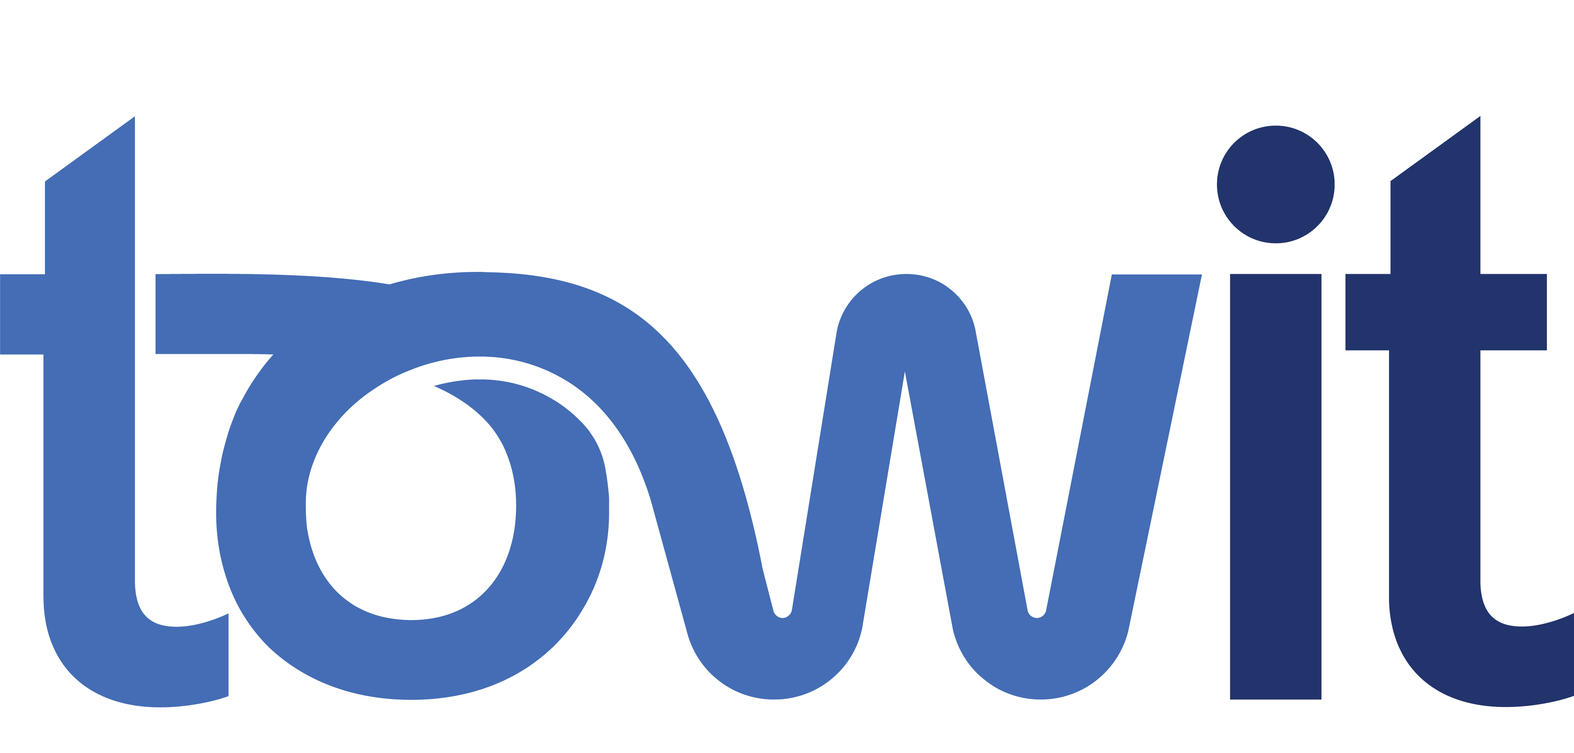
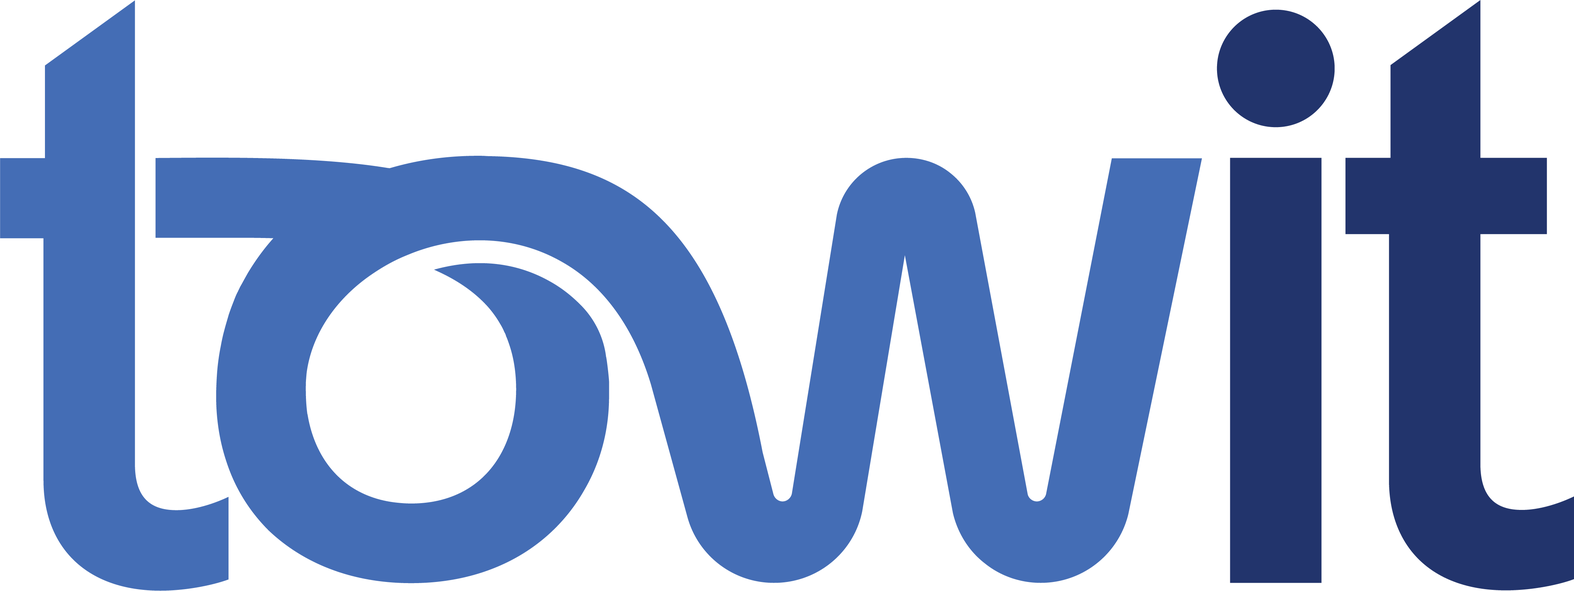
Fix stale CSS variable bugs, real FAQ content, and design polish
- Trim whitespace from client logo source images (via sharp) so
  Change 1 and Towit render at the same visual size as Perplexity
  instead of looking tiny inside their bounding box; also enlarge
  the work-page logo treatment for consistency.
- Fix two invisible-content bugs left over from earlier rebrands:
  the footer's "Hooked Media" text used the same brown-dark color as
  its own background (invisible), and the About page's "How we work"
  card referenced a deleted --navy-950 variable (rendered as an
  empty box). Replaced the latter with a real photo.
- Fix icon colors bleeding into unrelated cards: a :nth-child-based
  color rotation for feature-card icons was structurally matching
  the Contact page's info panel too, turning its email/social icons
  green. Replaced with explicit .icon-green/.icon-brown classes
  applied only where intended.
- Remove all em dashes from visible site copy.
- Replace the placeholder FAQ answers I had written from inference
  with the real, complete Q&A from the original site (recovered via
  a headless browser, since Wix loads FAQ answer text dynamically
  and it isn't present in the static HTML at all).

diff --git a/public/join.html b/public/join.html
@@ -5,7 +5,7 @@
 <meta name="viewport" content="width=device-width, initial-scale=1.0">
 <link rel="icon" href="favicon.svg" type="image/svg+xml">
 <title>Join Us | Hooked Media Strategy</title>
-<meta name="description" content="Join Hooked Media Strategy at UT Austin — gain hands-on digital marketing experience with real clients, no experience required.">
+<meta name="description" content="Join Hooked Media Strategy at UT Austin: gain hands-on digital marketing experience with real clients, no experience required.">
 <link rel="preconnect" href="https://fonts.googleapis.com">
 <link rel="preconnect" href="https://fonts.gstatic.com" crossorigin>
 <link href="https://fonts.googleapis.com/css2?family=Jost:wght@400;500;600;700&family=Archivo:wght@500;600;700;800&display=swap" rel="stylesheet">
@@ -38,7 +38,7 @@
   <div class="container">
     <span class="eyebrow" style="color:#ff8a80;">Join Us</span>
     <h1>Become a digital marketer.</h1>
-    <p class="lede">No portfolio, no prior experience — just a willingness to grow, collaborate, and create change together.</p>
+    <p class="lede">No portfolio, no prior experience, just a willingness to grow, collaborate, and create change together.</p>
   </div>
 </section>
 
@@ -70,7 +70,7 @@
     <div class="cta-banner" style="margin:0;">
       <span class="eyebrow" style="color:#ff8a80;">Applications</span>
       <h2>Our application for Fall 2026 is opening soon.</h2>
-      <p class="lede">We'll share updates and the application link on our social media platforms — follow along so you don't miss it.</p>
+      <p class="lede">We'll share updates and the application link on our social media platforms. Follow along so you don't miss it.</p>
       <div class="cta-banner-actions">
         <a href="https://www.instagram.com/hookedmediastrategy/" target="_blank" rel="noopener" class="btn btn-primary">Follow on Instagram</a>
         <a href="https://www.linkedin.com/company/hooked-media-strategy/" target="_blank" rel="noopener" class="btn btn-light">Follow on LinkedIn</a>
@@ -86,21 +86,44 @@
       <h2>Common questions</h2>
     </div>
     <div style="max-width:720px; margin:0 auto;">
+      <p class="eyebrow">General</p>
       <details class="faq" open>
-        <summary>I want to join, but I have no experience in digital marketing!</summary>
-        <p>That's completely fine — most of our members join without prior marketing experience. We provide lectures and mentorship from officers so you can learn as you go, on real client work.</p>
+        <summary>How does a digital marketing consultancy work?</summary>
+        <p>A consultancy provides guidance, strategy, and creative services to improve a client's online presence. At HMS, our student members work as a team to research trends, plan campaigns, and produce high-quality content that engages your target audience.</p>
       </details>
       <details class="faq">
-        <summary>Do I need to be a UT Austin student to join?</summary>
-        <p>HMS is a student organization based at the University of Texas at Austin, and our teams are made up of current UT Austin students.</p>
+        <summary>Do you work with organizations outside of Austin, Texas?</summary>
+        <p>It depends! If the organization is willing to meet with us remotely, then we can make it possible.</p>
       </details>
       <details class="faq">
-        <summary>How much time does being a member take?</summary>
-        <p>Teams of four work with a client each semester, combining regular team meetings with independent work on strategy, content, and reporting.</p>
+        <summary>Why is digital marketing important for organizations?</summary>
+        <p>Digital marketing is one of the most effective ways for organizations to connect with the people they want to reach. Whether you're a small business, nonprofit, or startup, a strong online presence helps you share your mission, engage your community, and stand out in a crowded space.</p>
       </details>
       <details class="faq">
-        <summary>When does the next application open?</summary>
-        <p>Our application for Fall 2026 is opening soon — follow us on Instagram or LinkedIn for the announcement and application link.</p>
+        <summary>Why would the client want to work with Hooked Media Strategy?</summary>
+        <p>Our service is completely free, and our team brings fresh, Gen Z-informed strategies backed by real experience in social media management and PR. In addition, our collaborative approach means you're never in the dark as we provide regular updates to make sure our work stays aligned with your vision and delivers measurable results.</p>
+      </details>
+
+      <p class="eyebrow" style="margin-top:36px;">Roles &amp; Responsibilities</p>
+      <details class="faq">
+        <summary>What can Hooked Media Strategy (HMS) do for students?</summary>
+        <p>We offer mentorship, hands-on experience in digital marketing with real clients, and lectures on topics such as social media algorithms and consumer profiles. Digital marketing is a fast-growing field, yet few classes provide tangible projects and lessons that build industry-ready skills. That is why we created HMS, not just to bridge that gap, but to build a supportive community where students collaborate and learn from each other.</p>
+      </details>
+      <details class="faq">
+        <summary>Is this affiliated with UT?</summary>
+        <p>Yes and no! We are a registered organization at UT Austin, but we don't work for them and aren't representing UT as a brand. We are an organization formed by students at UT that officially met the requirements to be recognized and supported by the institution.</p>
+      </details>
+      <details class="faq">
+        <summary>Is this organization a big-time commitment?</summary>
+        <p>It's what you make of it (although expect to spend at least two hours/week on mandatory meetings). If you want to make an impact and have something noteworthy on your resume, it will take a good amount of commitment, but that is true for anything. You get what you put in. Digital marketing is a competitive field, and if you want experience that helps you get your foot in the door, doing your best to deliver strong results for the client is the way to go.</p>
+      </details>
+      <details class="faq">
+        <summary>I want to join, but I have no experience in Digital Marketing!</summary>
+        <p>That's okay! While experience can give you a leg up, it's not required. We are not looking for someone who knows everything; we are looking for someone eager to learn and adapt. A handful of digital marketers don't have formal degrees; they fell into it. Our officers will guide you and give you the basic foundations, and it is up to you to take it from there. Learn as much as you can, be brave, and you will thrive in whatever role you take on.</p>
+      </details>
+      <details class="faq">
+        <summary>How can I apply?</summary>
+        <p>Applications open each semester. Check our "Join Us" page or follow our Instagram for updates.</p>
       </details>
     </div>
   </div>

diff --git a/public/about.html b/public/about.html
@@ -38,7 +38,7 @@
   <div class="container">
     <span class="eyebrow" style="color:#ff8a80;">Our Mission</span>
     <h1>Free digital marketing, powered by student talent.</h1>
-    <p class="lede">We are Hooked Media Strategy (HMS) — a student-run organization at the University of Texas at Austin providing free digital marketing services to small businesses and nonprofits.</p>
+    <p class="lede">We are Hooked Media Strategy (HMS), a student-run organization at the University of Texas at Austin providing free digital marketing services to small businesses and nonprofits.</p>
   </div>
 </section>
 
@@ -49,17 +49,11 @@
         <span class="eyebrow">The Dual Mission</span>
         <h2>Empowering organizations. Equipping students.</h2>
         <p>We pursue two goals at once: helping local organizations grow through smart digital marketing strategy, and giving students hands-on, career-ready experience they can't get in a classroom.</p>
-        <p>Every semester, student teams of four partner directly with a client to build and execute a real social media and digital PR strategy — from research and content to reporting on what actually worked.</p>
+        <p>Every semester, student teams of four partner directly with a client to build and execute a real social media and digital PR strategy, from research and content to reporting on what actually worked.</p>
         <p>We're expanding beyond social media into broader digital marketing services as our team and expertise grow.</p>
       </div>
-      <div class="card" style="background:var(--navy-950); color:white; border:none;">
-        <h3 style="color:white;">How we work</h3>
-        <ul style="color:rgba(255,255,255,0.75); padding-left:20px; margin:0;">
-          <li style="margin-bottom:12px;">Teams of 4 students per client, per semester</li>
-          <li style="margin-bottom:12px;">Free strategy, content, and execution</li>
-          <li style="margin-bottom:12px;">Manager-led Social Media and Digital PR divisions</li>
-          <li>Data-backed reporting on real impact</li>
-        </ul>
+      <div class="mission-photo">
+        <img src="images/team-collaboration.jpg" alt="A student team collaborating around a laptop and notebooks">
       </div>
     </div>
   </div>
@@ -78,12 +72,12 @@
         <p>We work side by side with clients and teammates, blending diverse perspectives into strategies that stick.</p>
       </div>
       <div class="card value-card">
-        <div class="icon"><svg viewBox="0 0 24 24" fill="none" stroke="currentColor" stroke-width="1.8" stroke-linecap="round" stroke-linejoin="round"><polygon points="13 2 3 14 12 14 11 22 21 10 12 10 13 2"/></svg></div>
+        <div class="icon icon-green"><svg viewBox="0 0 24 24" fill="none" stroke="currentColor" stroke-width="1.8" stroke-linecap="round" stroke-linejoin="round"><polygon points="13 2 3 14 12 14 11 22 21 10 12 10 13 2"/></svg></div>
         <h3>Creativity</h3>
         <p>We craft bold, trend-driven ideas that transform stories into scroll-stopping content.</p>
       </div>
       <div class="card value-card">
-        <div class="icon"><svg viewBox="0 0 24 24" fill="none" stroke="currentColor" stroke-width="1.8" stroke-linecap="round" stroke-linejoin="round"><circle cx="12" cy="12" r="10"/><circle cx="12" cy="12" r="6"/><circle cx="12" cy="12" r="2"/></svg></div>
+        <div class="icon icon-brown"><svg viewBox="0 0 24 24" fill="none" stroke="currentColor" stroke-width="1.8" stroke-linecap="round" stroke-linejoin="round"><circle cx="12" cy="12" r="10"/><circle cx="12" cy="12" r="6"/><circle cx="12" cy="12" r="2"/></svg></div>
         <h3>Impact</h3>
         <p>We deliver real results that amplify missions, grow communities, and make change visible.</p>
       </div>
@@ -97,12 +91,12 @@
       <div class="card" style="order:2;">
         <span class="eyebrow">Founding Story</span>
         <h3>How HMS started</h3>
-        <p>Co-founder Gia Nguyen conceived HMS while collaborating on an ADHD productivity app and managing social media for various organizations. She partnered with Sabrina Chew and Shikha Mehta to build a student-led agency offering free expertise to underserved businesses and nonprofits — reflecting their shared commitment to community service.</p>
+        <p>Co-founder Gia Nguyen conceived HMS while collaborating on an ADHD productivity app and managing social media for various organizations. She partnered with Sabrina Chew and Shikha Mehta to build a student-led agency offering free expertise to underserved businesses and nonprofits, reflecting their shared commitment to community service.</p>
       </div>
       <div>
         <span class="eyebrow">Who We Are</span>
         <h2>College students. Digital natives. Culture-makers.</h2>
-        <p class="lede">Our members are UT Austin students committed to community impact. We welcome people from diverse backgrounds who are ready to grow, collaborate, and create change together — over formal résumés or prior marketing experience.</p>
+        <p class="lede">Our members are UT Austin students committed to community impact. We welcome people from diverse backgrounds who are ready to grow, collaborate, and create change together, over formal résumés or prior marketing experience.</p>
         <a href="team.html" class="btn btn-outline">Meet the leadership team</a>
       </div>
     </div>

diff --git a/public/index.html b/public/index.html
@@ -39,7 +39,7 @@
     <div>
       <span class="eyebrow" style="color:#ff8a80;">A Student-Run Agency at UT Austin</span>
       <h1>Boost your online presence with Hooked Media Strategy.</h1>
-      <p class="lede">We're a student-led digital marketing agency helping nonprofits and small businesses grow — completely free. Fresh ideas, real strategy, and creativity from UT Austin's next generation of marketers.</p>
+      <p class="lede">We're a student-led digital marketing agency helping nonprofits and small businesses grow, completely free. Fresh ideas, real strategy, and creativity from UT Austin's next generation of marketers.</p>
       <div class="hero-actions">
         <a href="contact.html" class="btn btn-primary">Get in Touch</a>
         <a href="work.html" class="btn btn-light">See Our Work</a>
@@ -53,7 +53,7 @@
     <div class="hero-card">
       <span class="hero-card-tag">Why partner with us</span>
       <ul>
-        <li>Free strategy, content, and execution — no fees, ever</li>
+        <li>Free strategy, content, and execution, with no fees, ever</li>
         <li>Culture-fluent creative from digital natives</li>
         <li>Data-driven decisions, not guesswork</li>
         <li>A pipeline of motivated UT Austin talent</li>
@@ -76,12 +76,12 @@
         <p>We work side by side with clients and teammates, blending diverse perspectives into strategies that stick.</p>
       </div>
       <div class="card value-card">
-        <div class="icon"><svg viewBox="0 0 24 24" fill="none" stroke="currentColor" stroke-width="1.8" stroke-linecap="round" stroke-linejoin="round"><polygon points="13 2 3 14 12 14 11 22 21 10 12 10 13 2"/></svg></div>
+        <div class="icon icon-green"><svg viewBox="0 0 24 24" fill="none" stroke="currentColor" stroke-width="1.8" stroke-linecap="round" stroke-linejoin="round"><polygon points="13 2 3 14 12 14 11 22 21 10 12 10 13 2"/></svg></div>
         <h3>Creativity</h3>
         <p>We craft bold, trend-driven ideas that transform stories into scroll-stopping content.</p>
       </div>
       <div class="card value-card">
-        <div class="icon"><svg viewBox="0 0 24 24" fill="none" stroke="currentColor" stroke-width="1.8" stroke-linecap="round" stroke-linejoin="round"><circle cx="12" cy="12" r="10"/><circle cx="12" cy="12" r="6"/><circle cx="12" cy="12" r="2"/></svg></div>
+        <div class="icon icon-brown"><svg viewBox="0 0 24 24" fill="none" stroke="currentColor" stroke-width="1.8" stroke-linecap="round" stroke-linejoin="round"><circle cx="12" cy="12" r="10"/><circle cx="12" cy="12" r="6"/><circle cx="12" cy="12" r="2"/></svg></div>
         <h3>Impact</h3>
         <p>We deliver real results that amplify missions, grow communities, and make change visible.</p>
       </div>
@@ -105,12 +105,12 @@
         <p>Custom strategies and content calendars that help you engage your audience consistently.</p>
       </div>
       <div class="card">
-        <div class="icon"><svg viewBox="0 0 24 24" fill="none" stroke="currentColor" stroke-width="1.8" stroke-linecap="round" stroke-linejoin="round"><path d="M12 20h9"/><path d="M16.5 3.5a2.12 2.12 0 013 3L7 19l-4 1 1-4L16.5 3.5z"/></svg></div>
+        <div class="icon icon-green"><svg viewBox="0 0 24 24" fill="none" stroke="currentColor" stroke-width="1.8" stroke-linecap="round" stroke-linejoin="round"><path d="M12 20h9"/><path d="M16.5 3.5a2.12 2.12 0 013 3L7 19l-4 1 1-4L16.5 3.5z"/></svg></div>
         <h3>Content Creation</h3>
         <p>Engaging, on-brand content that drives meaningful interactions and builds loyalty.</p>
       </div>
       <div class="card">
-        <div class="icon"><svg viewBox="0 0 24 24" fill="none" stroke="currentColor" stroke-width="1.8" stroke-linecap="round" stroke-linejoin="round"><circle cx="12" cy="12" r="10"/><line x1="2" y1="12" x2="22" y2="12"/><path d="M12 2a15.3 15.3 0 014 10 15.3 15.3 0 01-4 10 15.3 15.3 0 01-4-10 15.3 15.3 0 014-10z"/></svg></div>
+        <div class="icon icon-brown"><svg viewBox="0 0 24 24" fill="none" stroke="currentColor" stroke-width="1.8" stroke-linecap="round" stroke-linejoin="round"><circle cx="12" cy="12" r="10"/><line x1="2" y1="12" x2="22" y2="12"/><path d="M12 2a15.3 15.3 0 014 10 15.3 15.3 0 01-4 10 15.3 15.3 0 01-4-10 15.3 15.3 0 014-10z"/></svg></div>
         <h3>Digital PR</h3>
         <p>Media relationships, SEO, and CRM tools that expand your reach and prove your impact.</p>
       </div>
@@ -167,7 +167,7 @@
 
 <section class="section">
   <div class="cta-banner">
-    <h2>Want to grow your organization's reach — for free?</h2>
+    <h2>Want to grow your organization's reach for free?</h2>
     <p class="lede">If you're a nonprofit or small business looking for a dedicated student team, we'd love to hear about your goals.</p>
     <div class="cta-banner-actions">
       <a href="contact.html" class="btn btn-primary">Get in Touch</a>

diff --git a/public/services.html b/public/services.html
@@ -53,13 +53,13 @@
       </div>
 
       <div class="card">
-        <div class="icon"><svg viewBox="0 0 24 24" fill="none" stroke="currentColor" stroke-width="1.8" stroke-linecap="round" stroke-linejoin="round"><path d="M12 20h9"/><path d="M16.5 3.5a2.12 2.12 0 013 3L7 19l-4 1 1-4L16.5 3.5z"/></svg></div>
+        <div class="icon icon-green"><svg viewBox="0 0 24 24" fill="none" stroke="currentColor" stroke-width="1.8" stroke-linecap="round" stroke-linejoin="round"><path d="M12 20h9"/><path d="M16.5 3.5a2.12 2.12 0 013 3L7 19l-4 1 1-4L16.5 3.5z"/></svg></div>
         <h3>Compelling Content Creation</h3>
-        <p>Engaging, relevant content that resonates with your target audience — driving meaningful interactions and building brand loyalty.</p>
+        <p>Engaging, relevant content that resonates with your target audience while driving meaningful interactions and building brand loyalty.</p>
       </div>
 
       <div class="card">
-        <div class="icon"><svg viewBox="0 0 24 24" fill="none" stroke="currentColor" stroke-width="1.8" stroke-linecap="round" stroke-linejoin="round"><circle cx="12" cy="12" r="10"/><line x1="2" y1="12" x2="22" y2="12"/><path d="M12 2a15.3 15.3 0 014 10 15.3 15.3 0 01-4 10 15.3 15.3 0 01-4-10 15.3 15.3 0 014-10z"/></svg></div>
+        <div class="icon icon-brown"><svg viewBox="0 0 24 24" fill="none" stroke="currentColor" stroke-width="1.8" stroke-linecap="round" stroke-linejoin="round"><circle cx="12" cy="12" r="10"/><line x1="2" y1="12" x2="22" y2="12"/><path d="M12 2a15.3 15.3 0 014 10 15.3 15.3 0 01-4 10 15.3 15.3 0 01-4-10 15.3 15.3 0 014-10z"/></svg></div>
         <h3>Digital PR</h3>
         <p>We build your online presence through content production, media relationship building, SEO strategy, and CRM tools to expand your reach and track your impact.</p>
       </div>
@@ -71,7 +71,7 @@
       </div>
 
       <div class="card" style="grid-column: 1 / -1;">
-        <div class="icon"><svg viewBox="0 0 24 24" fill="none" stroke="currentColor" stroke-width="1.8" stroke-linecap="round" stroke-linejoin="round"><circle cx="12" cy="8" r="7"/><polyline points="8.21 13.89 7 23 12 20 17 23 15.79 13.88"/></svg></div>
+        <div class="icon icon-green"><svg viewBox="0 0 24 24" fill="none" stroke="currentColor" stroke-width="1.8" stroke-linecap="round" stroke-linejoin="round"><circle cx="12" cy="8" r="7"/><polyline points="8.21 13.89 7 23 12 20 17 23 15.79 13.88"/></svg></div>
         <h3>Educational Workshops</h3>
         <p>Interactive workshops that empower students with the knowledge and skills to navigate the dynamic world of social media and digital marketing.</p>
       </div>

diff --git a/public/structure.html b/public/structure.html
@@ -53,20 +53,20 @@
         <p>Guided by a Social Media Manager, this team fuses viral creativity with data-driven insight.</p>
         <div style="margin-top:20px;">
           <span class="role-pill">Social Media Manager</span>
-          <span class="role-pill">Social Creatives — trending content &amp; design</span>
-          <span class="role-pill">Social Analysts — algorithms &amp; performance</span>
+          <span class="role-pill">Social Creatives: trending content &amp; design</span>
+          <span class="role-pill">Social Analysts: algorithms &amp; performance</span>
         </div>
       </div>
 
       <div class="card dept-card">
-        <div class="icon"><svg viewBox="0 0 24 24" fill="none" stroke="currentColor" stroke-width="1.8" stroke-linecap="round" stroke-linejoin="round"><circle cx="12" cy="12" r="10"/><line x1="2" y1="12" x2="22" y2="12"/><path d="M12 2a15.3 15.3 0 014 10 15.3 15.3 0 01-4 10 15.3 15.3 0 01-4-10 15.3 15.3 0 014-10z"/></svg></div>
+        <div class="icon icon-green"><svg viewBox="0 0 24 24" fill="none" stroke="currentColor" stroke-width="1.8" stroke-linecap="round" stroke-linejoin="round"><circle cx="12" cy="12" r="10"/><line x1="2" y1="12" x2="22" y2="12"/><path d="M12 2a15.3 15.3 0 014 10 15.3 15.3 0 01-4 10 15.3 15.3 0 01-4-10 15.3 15.3 0 014-10z"/></svg></div>
         <span class="eyebrow">Growth &amp; Reputation Engine</span>
         <h2>Digital PR Team</h2>
         <p>Guided by a Digital PR Manager, this team bridges the gap between digital traffic and real-world connections.</p>
         <div style="margin-top:20px;">
           <span class="role-pill">Digital PR Manager</span>
-          <span class="role-pill">PR Creatives — email &amp; media outreach</span>
-          <span class="role-pill">PR Analysts — SEO &amp; impact measurement</span>
+          <span class="role-pill">PR Creatives: email &amp; media outreach</span>
+          <span class="role-pill">PR Analysts: SEO &amp; impact measurement</span>
         </div>
       </div>
 
@@ -79,7 +79,7 @@
     <div class="section-head center">
       <span class="eyebrow">Connect With Us</span>
       <h2>Interested in leading or joining a team?</h2>
-      <p class="lede" style="margin:0 auto;">Both teams welcome students from every major — no prior marketing experience required.</p>
+      <p class="lede" style="margin:0 auto;">Both teams welcome students from every major, no prior marketing experience required.</p>
     </div>
     <div style="text-align:center;">
       <a href="join.html" class="btn btn-primary">Join Us</a>

diff --git a/public/css/style.css b/public/css/style.css
@@ -236,6 +236,17 @@ img { max-width: 100%; display: block; }
   padding: 30px;
   box-shadow: var(--shadow-lg);
 }
+.mission-photo {
+  border-radius: var(--radius);
+  overflow: hidden;
+  box-shadow: var(--shadow-lg);
+  aspect-ratio: 4 / 3;
+}
+.mission-photo img {
+  width: 100%;
+  height: 100%;
+  object-fit: cover;
+}
 .hero-card-tag {
   display: inline-block;
   font-family: "Archivo", sans-serif;
@@ -302,12 +313,8 @@ img { max-width: 100%; display: block; }
   margin-bottom: 18px;
 }
 .card .icon svg { width: 22px; height: 22px; }
-.grid-3 .card:nth-child(3n+2) .icon,
-.grid-2 .card:nth-child(4n+2) .icon,
-.value-card:nth-child(3n+2) .icon { background: var(--green-dark); }
-.grid-3 .card:nth-child(3n+3) .icon,
-.grid-2 .card:nth-child(4n+3) .icon,
-.value-card:nth-child(3n+3) .icon { background: var(--brown); }
+.icon-green { background: var(--green-dark) !important; }
+.icon-brown { background: var(--brown) !important; }
 
 .value-card { text-align: center; padding: 34px 24px; }
 .value-card .icon { margin-left: auto; margin-right: auto; }
@@ -340,7 +347,7 @@ img { max-width: 100%; display: block; }
 }
 .work-item:last-child { border-bottom: none; }
 .work-time { color: var(--muted); font-family: "Archivo", sans-serif; font-size: 0.85rem; font-weight: 600; }
-.work-logo { height: 26px; width: auto; max-width: 140px; object-fit: contain; margin-bottom: 14px; }
+.work-logo { height: 36px; width: auto; max-width: 170px; object-fit: contain; margin-bottom: 14px; }
 .result-stats {
   display: flex;
   flex-wrap: wrap;
@@ -488,6 +495,7 @@ details.faq p { margin-top: 12px; color: var(--muted); }
 .footer-grid li { margin-bottom: 10px; }
 .footer-grid a:hover { color: white; }
 .footer-brand { color: white; font-family: "Archivo", sans-serif; font-weight: 700; font-size: 1.12rem; margin-bottom: 12px; display: flex; align-items: center; gap: 10px; }
+.footer-brand .brand-word-lead { color: white; }
 .footer-bottom {
   display: flex;
   justify-content: space-between;

diff --git a/public/work.html b/public/work.html
@@ -69,7 +69,7 @@
         <h3>Perplexity AI</h3>
         <p>Perplexity AI is a conversational answer engine redefining information discovery. We partnered with their team to launch the Comet browser at UT Austin, combining viral social strategies with face-to-face engagement to drive brand trust and user adoption.</p>
         <p class="muted"><strong>Challenge:</strong> launching Comet to UT Austin students without relying on broad, unoptimized outreach.</p>
-        <p class="muted"><strong>Strategy:</strong> a dual-engine approach — social media drove broad visibility with trending, campus-specific content, while a PR team pre-qualified prospects and presented in relevant academic classes for credibility.</p>
+        <p class="muted"><strong>Strategy:</strong> a dual-engine approach: social media drove broad visibility with trending, campus-specific content, while a PR team pre-qualified prospects and presented in relevant academic classes for credibility.</p>
         <div class="result-stats">
           <div><strong>15,330+</strong><span>Students reached</span></div>
           <div><strong>385+</strong><span>Engagements</span></div>

diff --git a/public/team.html b/public/team.html
@@ -71,7 +71,7 @@
         <div class="team-photo">SO</div>
         <span class="team-role">Communication Director</span>
         <h3>Sophia Oliver</h3>
-        <p>Radio-Television-Film student with experience in content creation, social media management, and visual storytelling — plus a background in marketing, nonprofit work, and freelance photography.</p>
+        <p>Radio-Television-Film student with experience in content creation, social media management, and visual storytelling, plus a background in marketing, nonprofit work, and freelance photography.</p>
       </div>
 
     </div>
@@ -94,7 +94,7 @@
 <section class="section">
   <div class="cta-banner">
     <h2>Want to be part of the next team?</h2>
-    <p class="lede">We welcome students from every major and background — no marketing experience required.</p>
+    <p class="lede">We welcome students from every major and background, no marketing experience required.</p>
     <div class="cta-banner-actions">
       <a href="join.html" class="btn btn-primary">Join Us</a>
       <a href="contact.html" class="btn btn-light">Ask a Question</a>

diff --git a/public/contact.html b/public/contact.html
@@ -11,7 +11,7 @@
 <link href="https://fonts.googleapis.com/css2?family=Jost:wght@400;500;600;700&family=Archivo:wght@500;600;700;800&display=swap" rel="stylesheet">
 <link rel="stylesheet" href="css/style.css">
 <style>
-  #form-status { display:none; margin-top:16px; padding:14px 16px; border-radius:10px; background: rgba(31,182,166,0.12); color: var(--navy-800); font-size:0.92rem; }
+  #form-status { display:none; margin-top:16px; padding:14px 16px; border-radius:10px; background: var(--panel); color: var(--brown-dark); font-size:0.92rem; }
   #form-status.visible { display:block; }
 </style>
 </head>
@@ -76,7 +76,7 @@
         </form>
       </div>
 
-      <div class="card" style="background:var(--paper-dim);">
+      <div class="card" style="background:var(--panel);">
         <h3>Other ways to reach us</h3>
         <div class="contact-info-item">
           <div class="icon"><svg viewBox="0 0 24 24" fill="none" stroke="currentColor" stroke-width="1.8" stroke-linecap="round" stroke-linejoin="round"><rect x="2" y="4" width="20" height="16" rx="2"/><path d="M22 6L12 13 2 6"/></svg></div>
